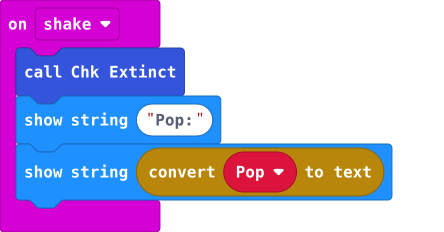
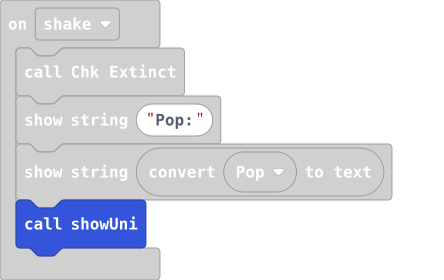
Update main.blocks, main.ts

diff --git a/main.ts b/main.ts
@@ -121,6 +121,7 @@ input.onGesture(Gesture.Shake, function () {
     Chk_Extinct()
     basic.showString("Pop:")
     basic.showString(convertToText(Pop))
+    showUni()
 })
 function findCoord (num: number) {
     sy = Math.trunc(num / 5)
